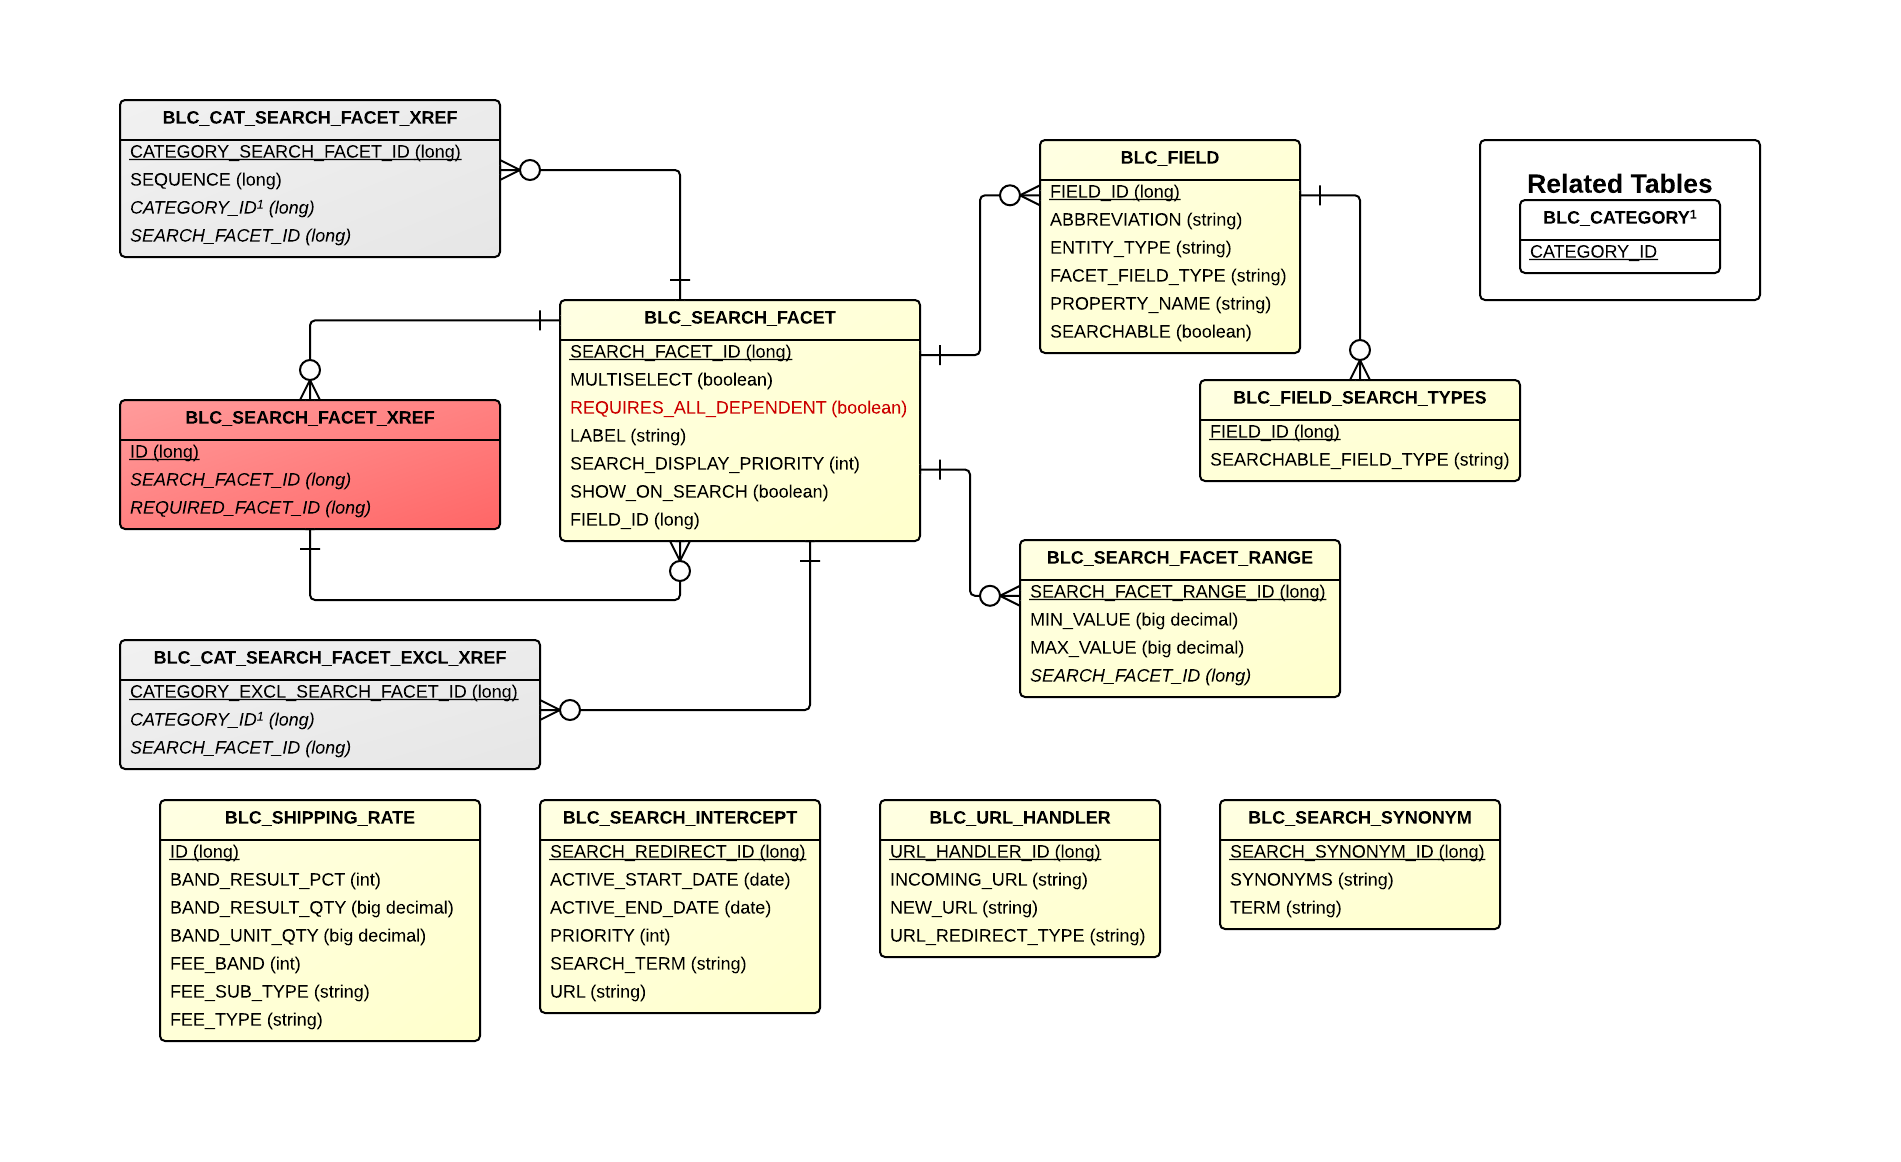
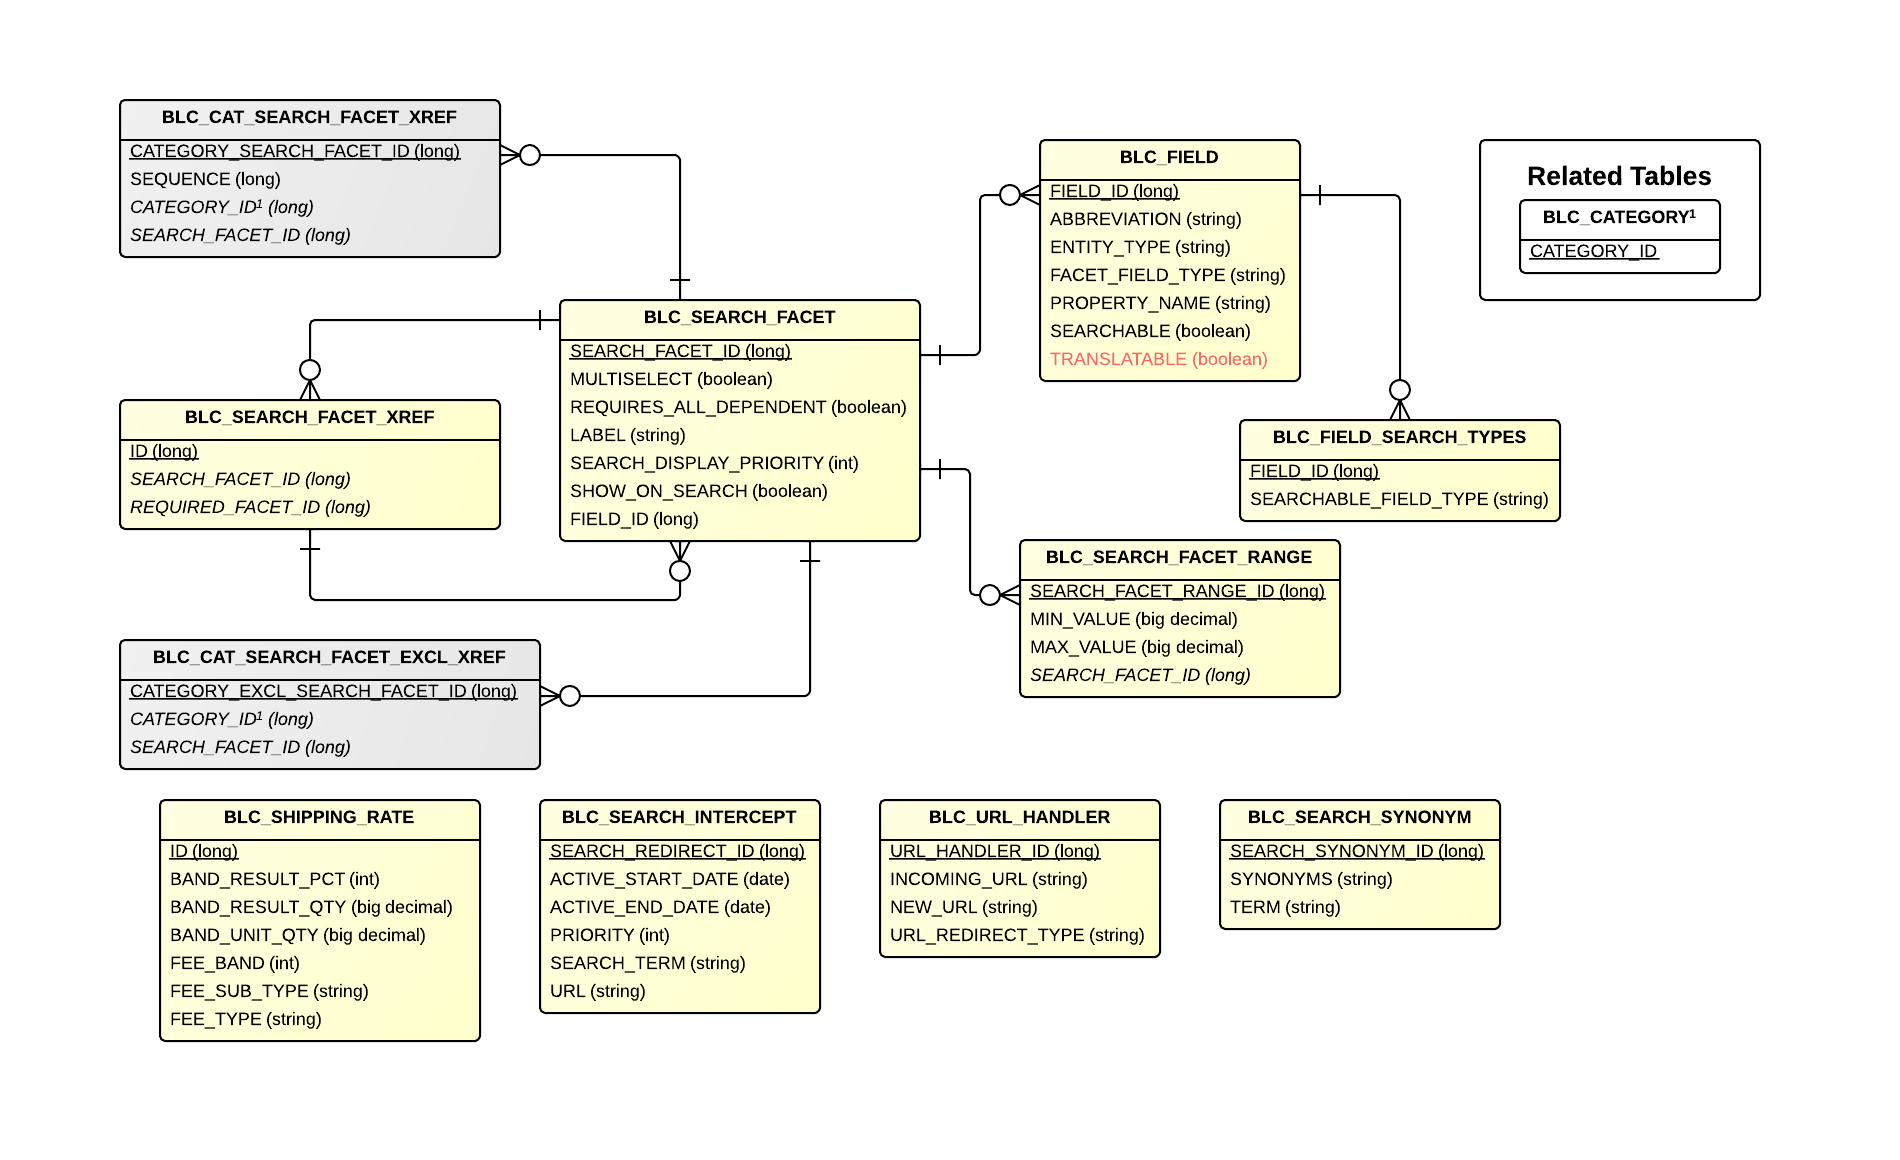
Added field to BLC_FIELD.

diff --git a/databaseModel/Database-Model.md b/databaseModel/Database-Model.md
@@ -10,6 +10,9 @@
 	- New Fields in `BLC_LOCALE`: CURRENCY_CODE 
 - In [[Category | Catalog Category]]
 	- New Fields in `BLC_CATEGORY`: FULFILLMENT_TYPE, INVENTORY_TYPE 
+- In [[Search | Catalog Search]]
+	- New Fields in `BLC_FIELD`: TRANSLATABLE
+	 	
 
 - In [[Customer | Customer Detail]]
 	- New Table: BLC_CUSTOMER_PAYMENT
